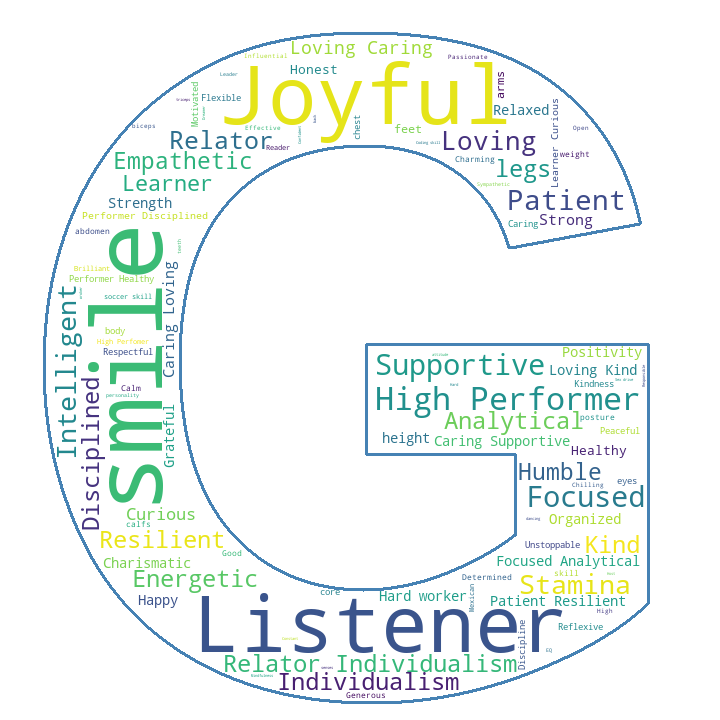
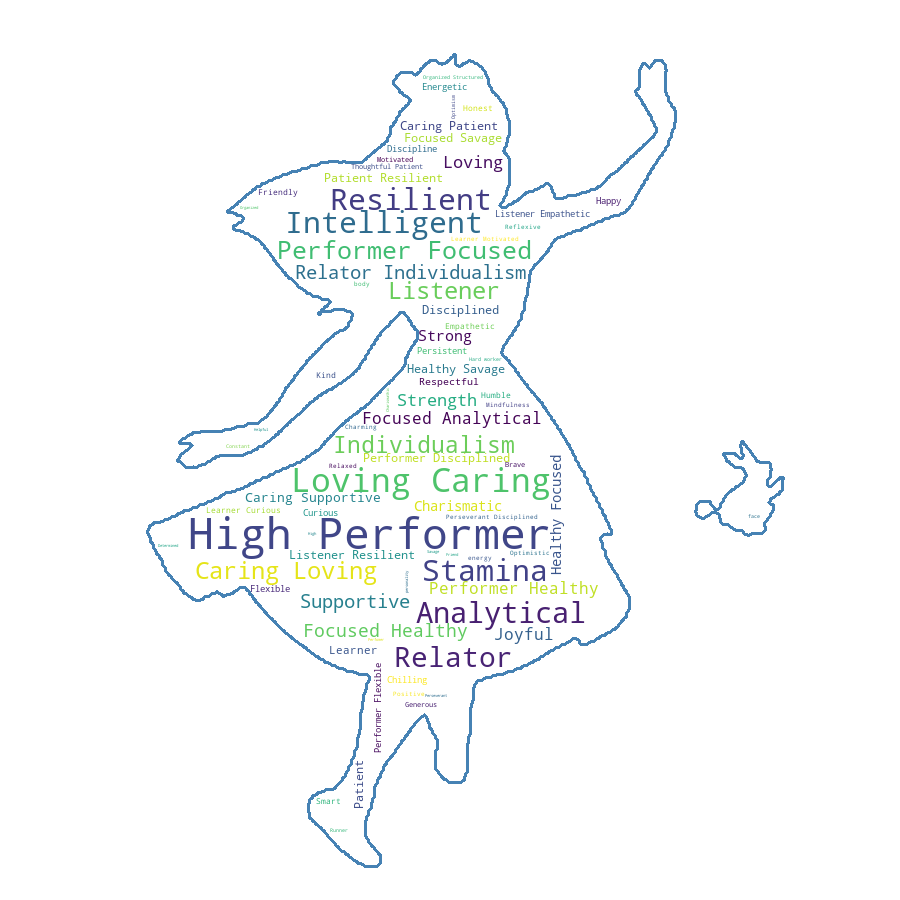
new dataset 2023

diff --git a/wordcloud_generator.py b/wordcloud_generator.py
@@ -5,8 +5,9 @@ from os import path
 from PIL import Image
 from wordcloud import WordCloud, STOPWORDS
 
-FILE = 'datasets/daily_self_gil.txt'
-MASK = 'images/masks/g.png'
+# 'datasets/daily_self_gil.txt' 
+FILE = 'datasets/self_appreciation_2023.txt'
+MASK = 'images/masks/alice_mask.png'
 
 # get data directory (using getcwd() is needed to support running example in generated IPython notebook)
 d = path.dirname(__file__) if "__file__" in locals() else os.getcwd()
@@ -18,7 +19,10 @@ text = open(path.join(d, FILE)).read()
 image_mask = np.array(Image.open(path.join(d, MASK)))
 
 stopwords = set(STOPWORDS)
-# print(stopwords)
+
+# Customize my Wordcloud
+stopwords.add('smile')
+stopwords.add('legs')
 
 wc = WordCloud(background_color="white", max_words=2000, mask=image_mask,
                stopwords=stopwords, contour_width=3, contour_color='steelblue')
